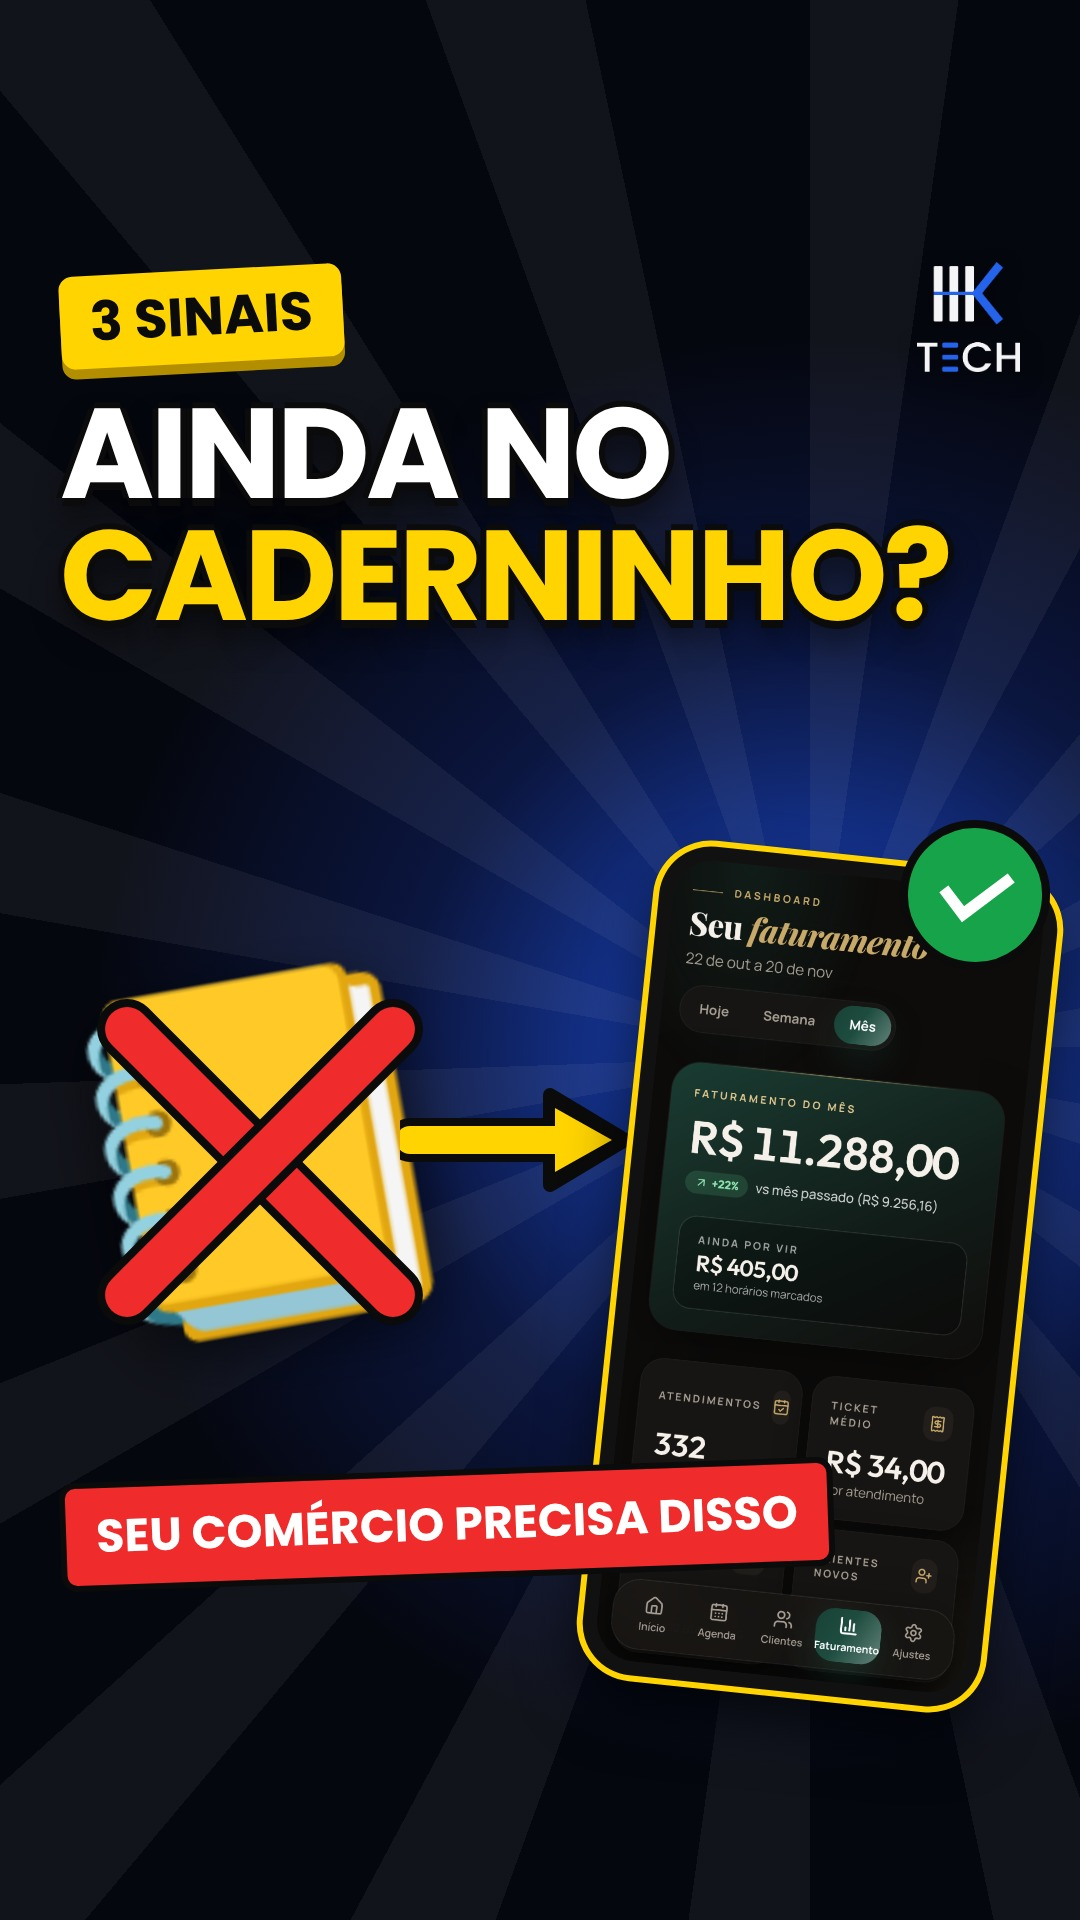
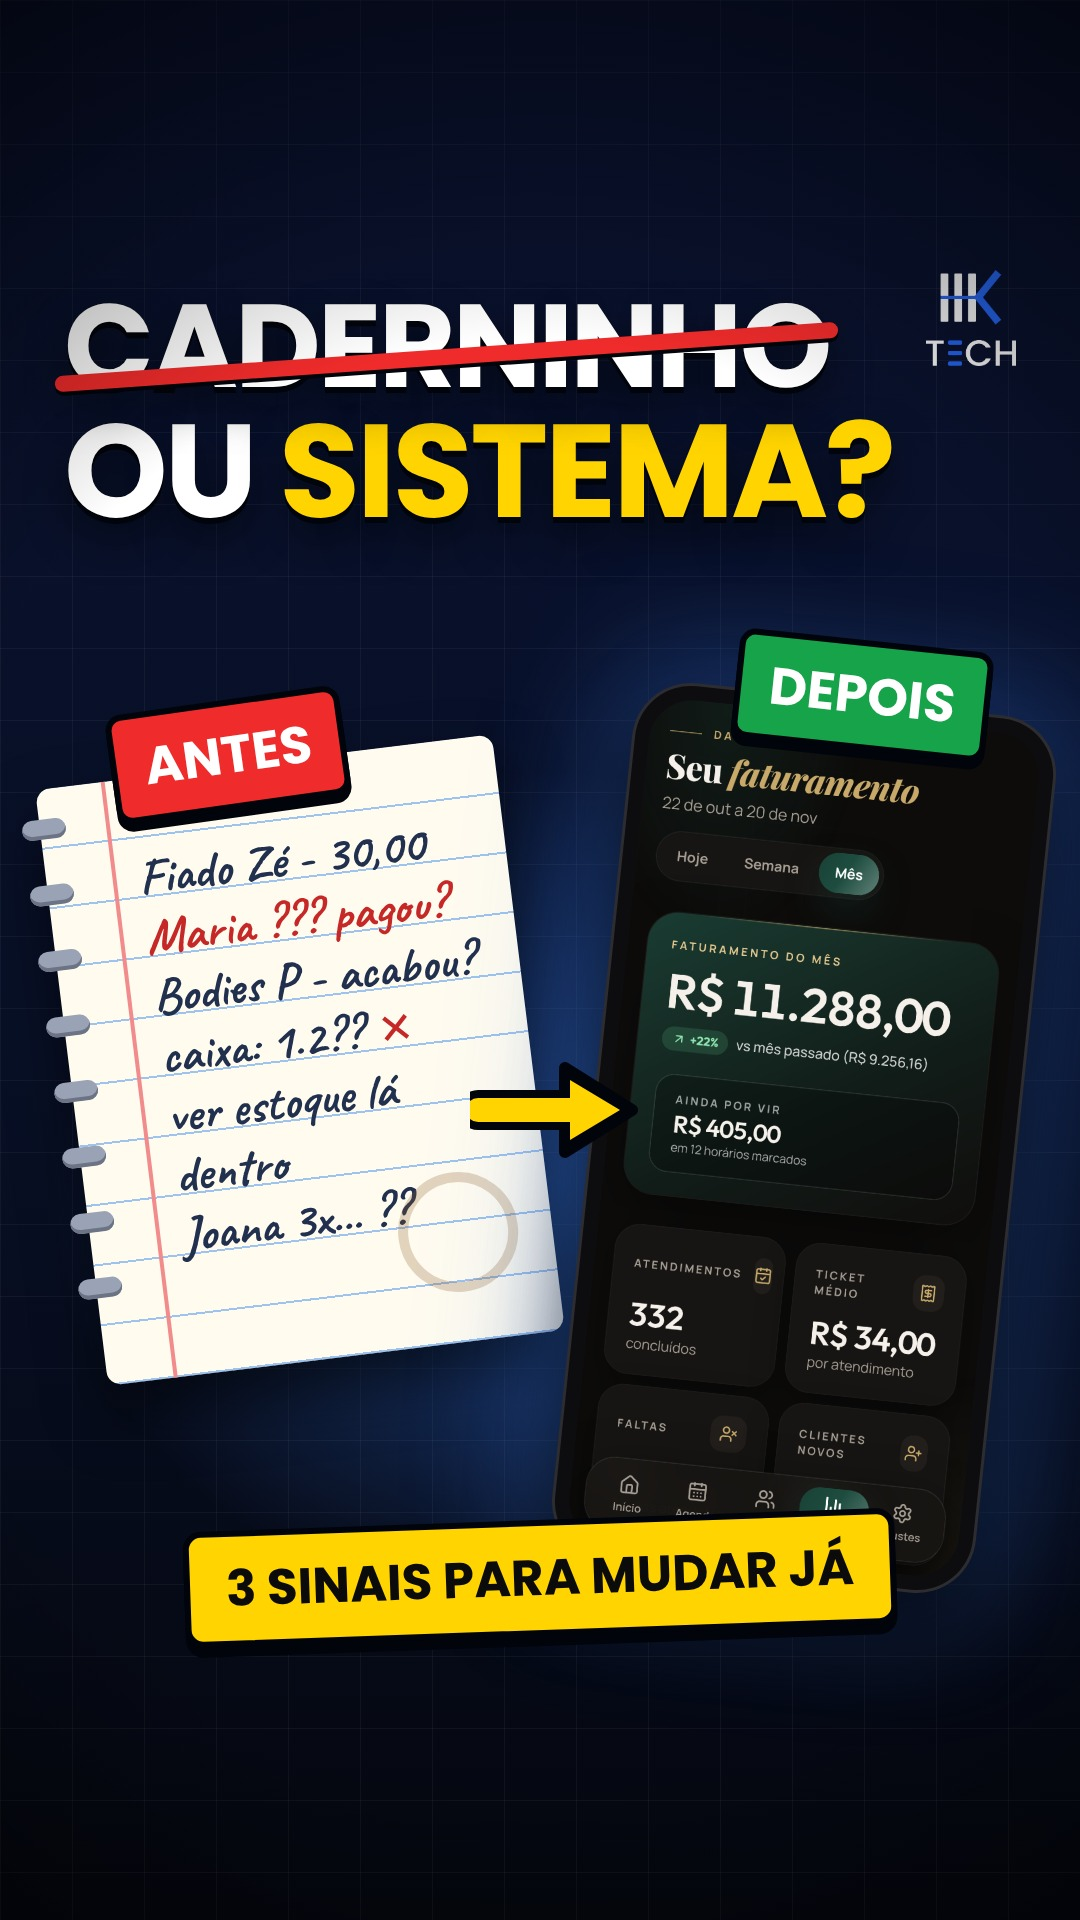
Redesign YouTube-style cover (antes/depois)
Claude-Session: https://claude.ai/code/session_017f6brravdrtJZyh6CoB7Yt

diff --git a/marketing/instagram/reel-3sinais/capa-yt.html b/marketing/instagram/reel-3sinais/capa-yt.html
@@ -1,40 +1,62 @@
 <!DOCTYPE html><html><head><meta charset="utf-8"><style>
+@font-face{font-family:'Caveat';src:url(../fonts/caveat-latin-700-normal.woff2);font-weight:700}
 *{margin:0;padding:0;box-sizing:border-box}
 body{background:#000}
-.c{position:relative;width:1080px;height:1920px;overflow:hidden;background:radial-gradient(900px 900px at 75% 55%,#1d4ed8 0%,#0b1640 45%,#05070f 80%);font-family:'Poppins'}
-/* raios de fundo */
-.rays{position:absolute;inset:0;background:repeating-conic-gradient(from 0deg at 75% 55%,rgba(255,255,255,.05) 0deg 8deg,rgba(255,255,255,0) 8deg 20deg)}
-.top{position:absolute;left:60px;right:60px;top:270px;text-align:left}
-.badge{display:inline-block;background:#FFD400;color:#0B0B0C;font-weight:800;font-size:54px;padding:6px 30px;border-radius:14px;transform:rotate(-3deg);box-shadow:0 10px 0 #b38f00}
-.h{margin-top:30px;font-weight:800;font-size:128px;line-height:.95;color:#FFFFFF;letter-spacing:-.03em;text-transform:uppercase;
-   text-shadow:0 8px 0 #0B0B0C,6px 0 0 #0B0B0C,-6px 0 0 #0B0B0C,0 -6px 0 #0B0B0C,0 18px 30px rgba(0,0,0,.6)}
-.h .y{color:#FFD400}
-/* lado esquerdo: caderninho riscado */
-.note{position:absolute;left:40px;top:930px;width:440px;height:440px;font-size:330px;line-height:440px;text-align:center;transform:rotate(-10deg);filter:drop-shadow(0 20px 30px rgba(0,0,0,.6))}
-.x{position:absolute;left:60px;top:960px;width:400px;height:400px}
-.x:before,.x:after{content:"";position:absolute;left:-10px;top:180px;width:420px;height:44px;background:#EF2B2B;border-radius:22px;box-shadow:0 0 0 8px #0B0B0C}
-.x:before{transform:rotate(45deg)}.x:after{transform:rotate(-45deg)}
-/* lado direito: celular com sistema */
-.phone{position:absolute;right:60px;top:860px;width:400px;border-radius:52px;padding:14px;background:#111;box-shadow:0 0 0 6px #FFD400,0 30px 60px rgba(0,0,0,.7);transform:rotate(6deg)}
-.phone img{display:block;width:100%;border-radius:40px}
-.ok{position:absolute;right:30px;top:820px;width:150px;height:150px;border-radius:50%;background:#16A34A;border:8px solid #0B0B0C;color:#fff;font-size:100px;font-weight:800;display:flex;align-items:center;justify-content:center;transform:rotate(8deg)}
-/* seta */
-.arrow{position:absolute;left:400px;top:1080px;width:240px;height:120px}
-.bottom{position:absolute;left:60px;right:60px;top:1470px;display:flex;justify-content:space-between;align-items:center}
-.pill{background:#EF2B2B;color:#fff;font-weight:800;font-size:46px;padding:14px 30px;border-radius:16px;border:6px solid #0B0B0C;transform:rotate(-2deg)}
-.mark{height:110px;filter:drop-shadow(0 6px 10px rgba(0,0,0,.6))}
+.c{position:relative;width:1080px;height:1920px;overflow:hidden;font-family:'Poppins';
+  background:radial-gradient(700px 600px at 50% 62%,rgba(59,130,246,.45),rgba(59,130,246,0) 70%),linear-gradient(180deg,#0a1230 0%,#081026 55%,#05070f 100%)}
+.grid{position:absolute;inset:0;background-image:linear-gradient(rgba(255,255,255,.045) 1px,transparent 1px),linear-gradient(90deg,rgba(255,255,255,.045) 1px,transparent 1px);background-size:72px 72px}
+.vig{position:absolute;inset:0;background:radial-gradient(1200px 1300px at 50% 55%,rgba(0,0,0,0) 55%,rgba(0,0,0,.75) 100%)}
+.mark{position:absolute;right:64px;top:270px;height:96px}
+.title{position:absolute;left:64px;right:64px;top:290px}
+.t1,.t2{font-weight:800;text-transform:uppercase;letter-spacing:-.025em;line-height:.95;color:#fff;
+  text-shadow:0 6px 0 #02040b,0 0 0 #000,0 22px 40px rgba(0,0,0,.55)}
+.t1{font-size:118px}
+.t1 s{text-decoration:none;position:relative}
+.t1 s:after{content:"";position:absolute;left:-10px;right:-10px;top:52%;height:16px;background:#EF2B2B;border-radius:8px;transform:rotate(-4deg);box-shadow:0 4px 0 #02040b}
+.t2{font-size:132px;margin-top:6px}
+.t2 b{color:#FFD400}
+/* caderno */
+.paper{position:absolute;left:70px;top:760px;width:460px;height:600px;border-radius:14px;transform:rotate(-7deg);
+  background:repeating-linear-gradient(180deg,#FFFBEF 0px,#FFFBEF 58px,#9EC3EE 58px,#9EC3EE 60px);box-shadow:0 30px 60px rgba(0,0,0,.6);padding:70px 30px 0 92px;font-family:'Caveat';color:#22304f;font-size:50px;line-height:60px}
+.paper:before{content:"";position:absolute;left:66px;top:0;bottom:0;width:4px;background:#F28B8B}
+.paper .r{color:#C62828}
+.paper .stain{position:absolute;right:34px;bottom:50px;width:120px;height:120px;border-radius:50%;border:10px solid rgba(140,90,40,.25)}
+.rings{position:absolute;left:-18px;top:30px;display:flex;flex-direction:column;gap:46px}
+.rings i{display:block;width:44px;height:20px;border-radius:10px;background:#9aa3b5;box-shadow:inset 0 -4px 0 #6b7385}
+/* celular */
+.phone{position:absolute;right:66px;top:700px;width:420px;border-radius:56px;padding:14px;background:#0d0d10;transform:rotate(6deg);
+  box-shadow:0 0 0 3px #2c2c31,0 40px 80px rgba(0,0,0,.7),0 0 120px 30px rgba(59,130,246,.35)}
+.phone img{display:block;width:100%;border-radius:44px}
+/* etiquetas */
+.lab{position:absolute;font-weight:800;font-size:52px;color:#fff;padding:10px 28px;border-radius:16px;border:6px solid #02040b;box-shadow:0 8px 0 #02040b}
+.antes{left:110px;top:700px;background:#EF2B2B;transform:rotate(-8deg)}
+.depois{right:90px;top:640px;background:#16A34A;transform:rotate(6deg)}
+.arrow{position:absolute;left:470px;top:1060px;width:170px;height:100px}
+.bottom{position:absolute;left:0;right:0;top:1520px;display:flex;justify-content:center}
+.badge{background:#FFD400;color:#0B0B0C;font-weight:800;font-size:50px;padding:14px 36px;border-radius:18px;border:6px solid #02040b;box-shadow:0 10px 0 #02040b;transform:rotate(-2deg)}
 </style></head><body>
 <div class="c" id="capa">
- <div class="rays"></div>
- <div class="top">
-  <span class="badge">3 SINAIS</span>
-  <div class="h">Ainda no<br><span class="y">caderninho?</span></div>
+ <div class="grid"></div>
+ <img class="mark" src="../mark.png">
+ <div class="title">
+  <div class="t1"><s>Caderninho</s></div>
+  <div class="t2">ou <b>sistema?</b></div>
  </div>
- <div class="note">📒</div>
- <div class="x"></div>
- <svg class="arrow" viewBox="0 0 240 120"><path d="M10 60 H170" stroke="#0B0B0C" stroke-width="44" stroke-linecap="round"/><path d="M150 15 L225 60 L150 105 Z" fill="#0B0B0C" stroke="#0B0B0C" stroke-width="14" stroke-linejoin="round"/><path d="M10 60 H170" stroke="#FFD400" stroke-width="28" stroke-linecap="round"/><path d="M155 28 L212 60 L155 92 Z" fill="#FFD400"/></svg>
+ <div class="paper">
+  <div class="rings"><i></i><i></i><i></i><i></i><i></i><i></i><i></i><i></i></div>
+  Fiado Zé - 30,00<br>
+  <span class="r">Maria ??? pagou?</span><br>
+  Bodies P - acabou?<br>
+  caixa: 1.2?? <span class="r">✗</span><br>
+  ver estoque lá dentro<br>
+  Joana 3x... ??
+  <div class="stain"></div>
+ </div>
  <div class="phone"><img src="../kort-telas/faturamento.png"></div>
- <div class="ok">✓</div>
- <div class="bottom"><span class="pill">SEU COMÉRCIO PRECISA DISSO</span></div><img class="mark" src="../mark.png" style="position:absolute;right:60px;top:262px">
+ <div class="lab antes">ANTES</div>
+ <div class="lab depois">DEPOIS</div>
+ <svg class="arrow" viewBox="0 0 170 100"><path d="M8 50 H110" stroke="#02040b" stroke-width="40" stroke-linecap="round"/><path d="M95 8 L162 50 L95 92 Z" fill="#02040b" stroke="#02040b" stroke-width="12" stroke-linejoin="round"/><path d="M8 50 H112" stroke="#FFD400" stroke-width="24" stroke-linecap="round"/><path d="M100 20 L150 50 L100 80 Z" fill="#FFD400"/></svg>
+ <div class="bottom"><span class="badge">3 SINAIS PARA MUDAR JÁ</span></div>
+ <div class="vig"></div>
 </div>
 </body></html>
